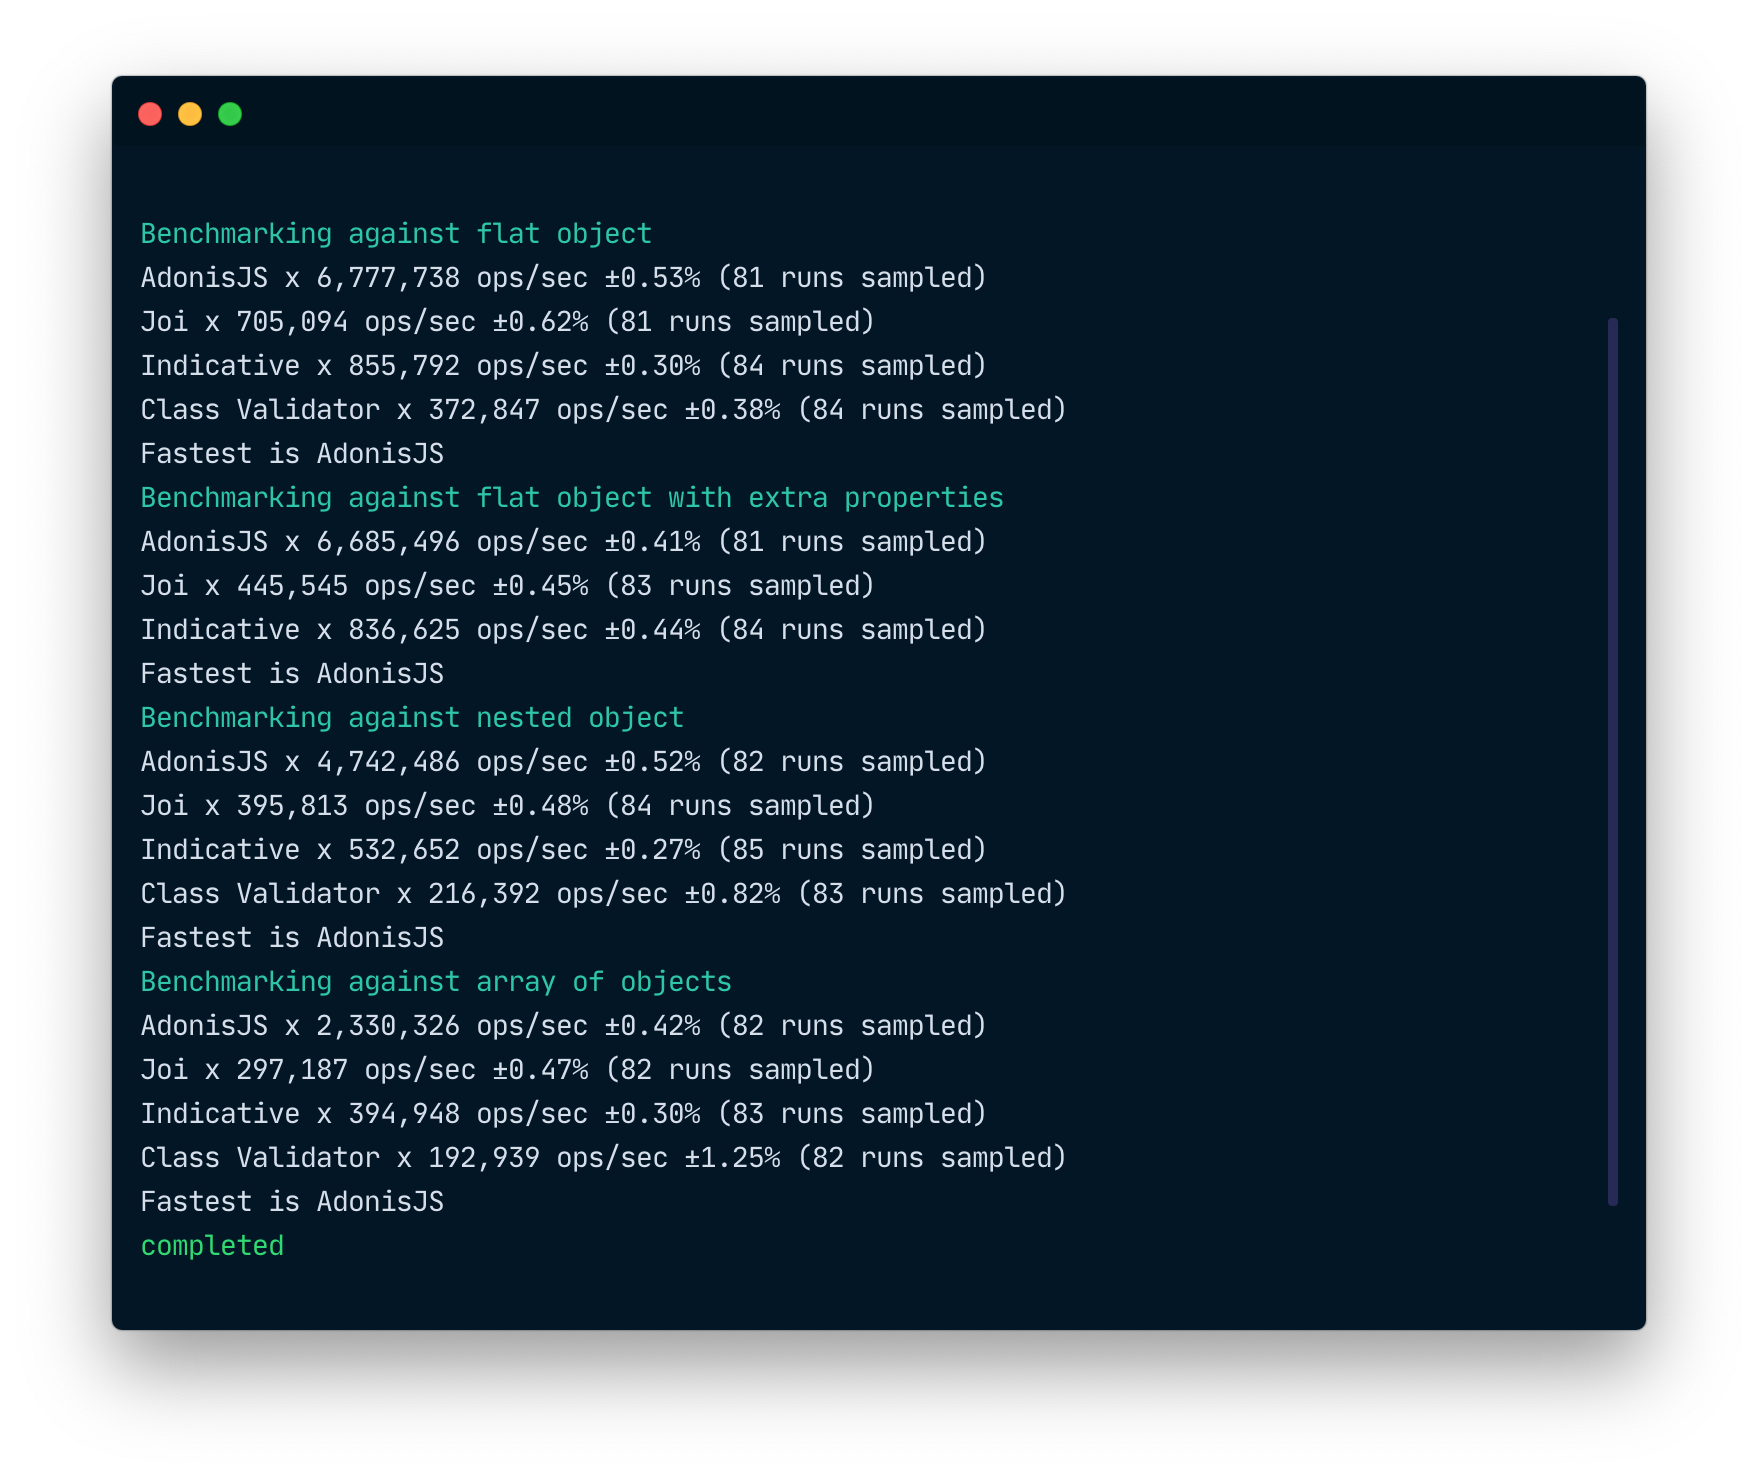
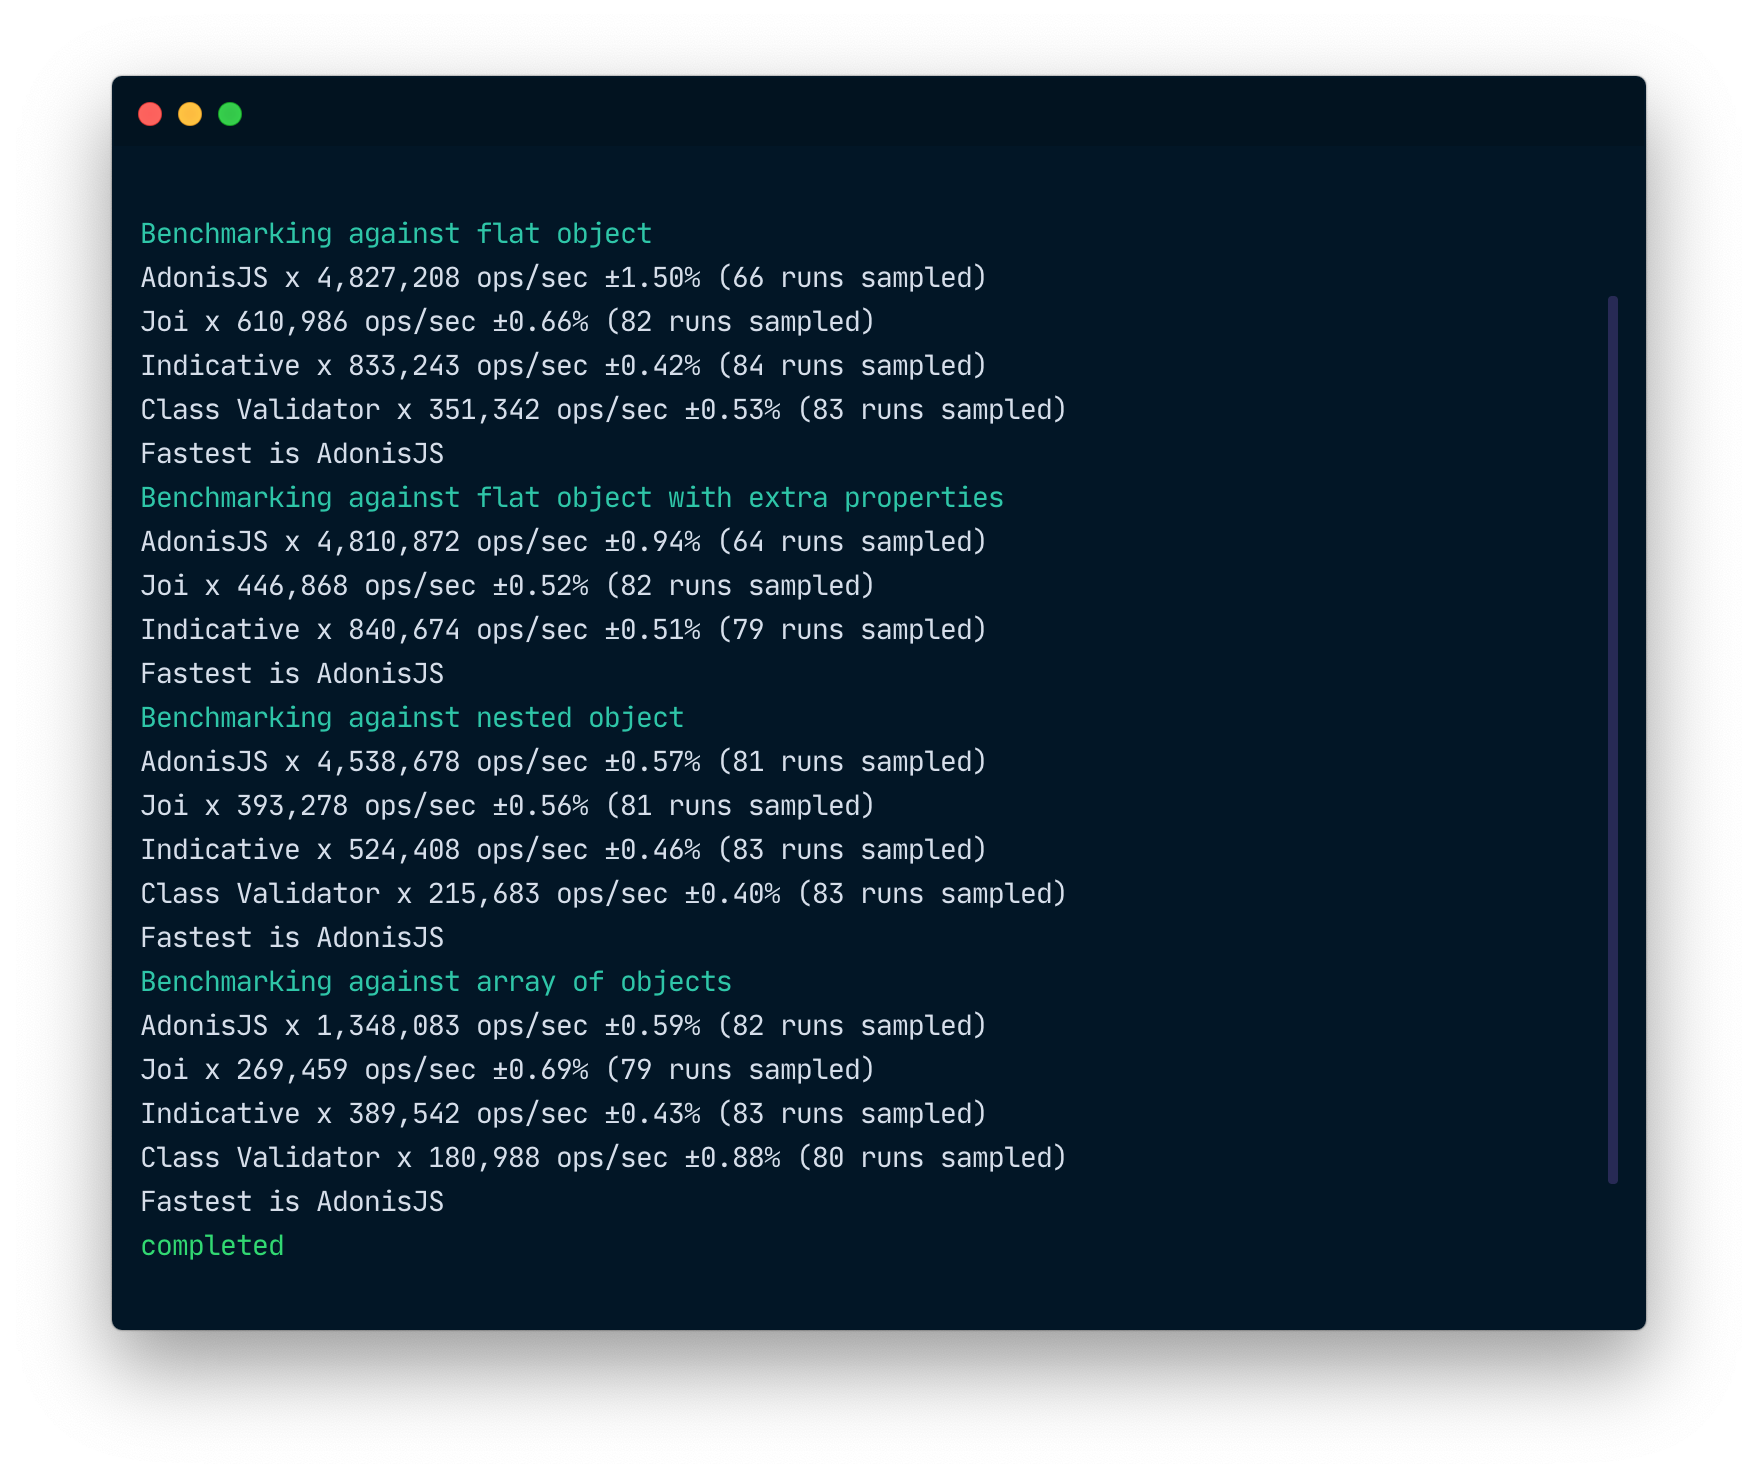
docs: update benchmarks

diff --git a/README.md b/README.md
@@ -26,39 +26,32 @@ Let's compare the validator performance in comparison to some of the famous libr
 
 ![](./benchmarks.png)
 
-<details>
-<summary><strong> Textual Version </strong></summary>
-<pre>
-<code>
-Benchmarking against flat object
-AdonisJS x 6,777,738 ops/sec ±0.53% (81 runs sampled)
-Joi x 705,094 ops/sec ±0.62% (81 runs sampled)
-Indicative x 855,792 ops/sec ±0.30% (84 runs sampled)
-Class Validator x 372,847 ops/sec ±0.38% (84 runs sampled)
+<pre><code>Benchmarking against flat object
+AdonisJS x 4,827,208 ops/sec ±1.50% (66 runs sampled)
+Joi x 610,986 ops/sec ±0.66% (82 runs sampled)
+Indicative x 833,243 ops/sec ±0.42% (84 runs sampled)
+Class Validator x 351,342 ops/sec ±0.53% (83 runs sampled)
 Fastest is AdonisJS
 
 Benchmarking against flat object with extra properties
-AdonisJS x 6,685,496 ops/sec ±0.41% (81 runs sampled)
-Joi x 445,545 ops/sec ±0.45% (83 runs sampled)
-Indicative x 836,625 ops/sec ±0.44% (84 runs sampled)
+AdonisJS x 4,810,872 ops/sec ±0.94% (64 runs sampled)
+Joi x 446,868 ops/sec ±0.52% (82 runs sampled)
+Indicative x 840,674 ops/sec ±0.51% (79 runs sampled)
 Fastest is AdonisJS
 
 Benchmarking against nested object
-AdonisJS x 4,742,486 ops/sec ±0.52% (82 runs sampled)
-Joi x 395,813 ops/sec ±0.48% (84 runs sampled)
-Indicative x 532,652 ops/sec ±0.27% (85 runs sampled)
-Class Validator x 216,392 ops/sec ±0.82% (83 runs sampled)
+AdonisJS x 4,538,678 ops/sec ±0.57% (81 runs sampled)
+Joi x 393,278 ops/sec ±0.56% (81 runs sampled)
+Indicative x 524,408 ops/sec ±0.46% (83 runs sampled)
+Class Validator x 215,683 ops/sec ±0.40% (83 runs sampled)
 Fastest is AdonisJS
 
 Benchmarking against array of objects
-AdonisJS x 2,330,326 ops/sec ±0.42% (82 runs sampled)
-Joi x 297,187 ops/sec ±0.47% (82 runs sampled)
-Indicative x 394,948 ops/sec ±0.30% (83 runs sampled)
-Class Validator x 192,939 ops/sec ±1.25% (82 runs sampled)
-Fastest is AdonisJS
-</code>
-</pre>
-</details>
+AdonisJS x 1,348,083 ops/sec ±0.59% (82 runs sampled)
+Joi x 269,459 ops/sec ±0.69% (79 runs sampled)
+Indicative x 389,542 ops/sec ±0.43% (83 runs sampled)
+Class Validator x 180,988 ops/sec ±0.88% (80 runs sampled)
+Fastest is AdonisJS</code></pre>
 
 ## Goals
 **No code is the fastest code**. In other words, making something fast is not a big deal, if you cut out all the features and compromise usability on every front.
